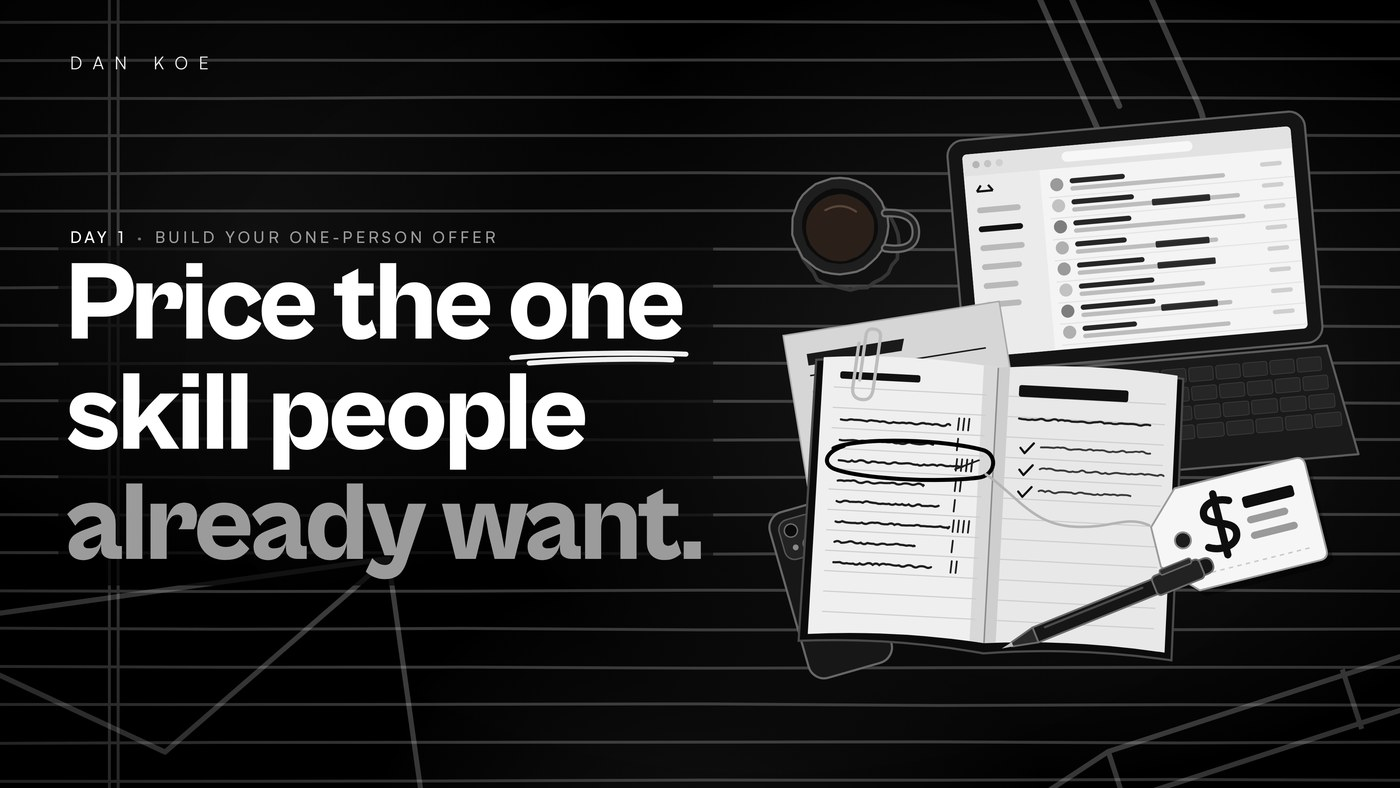
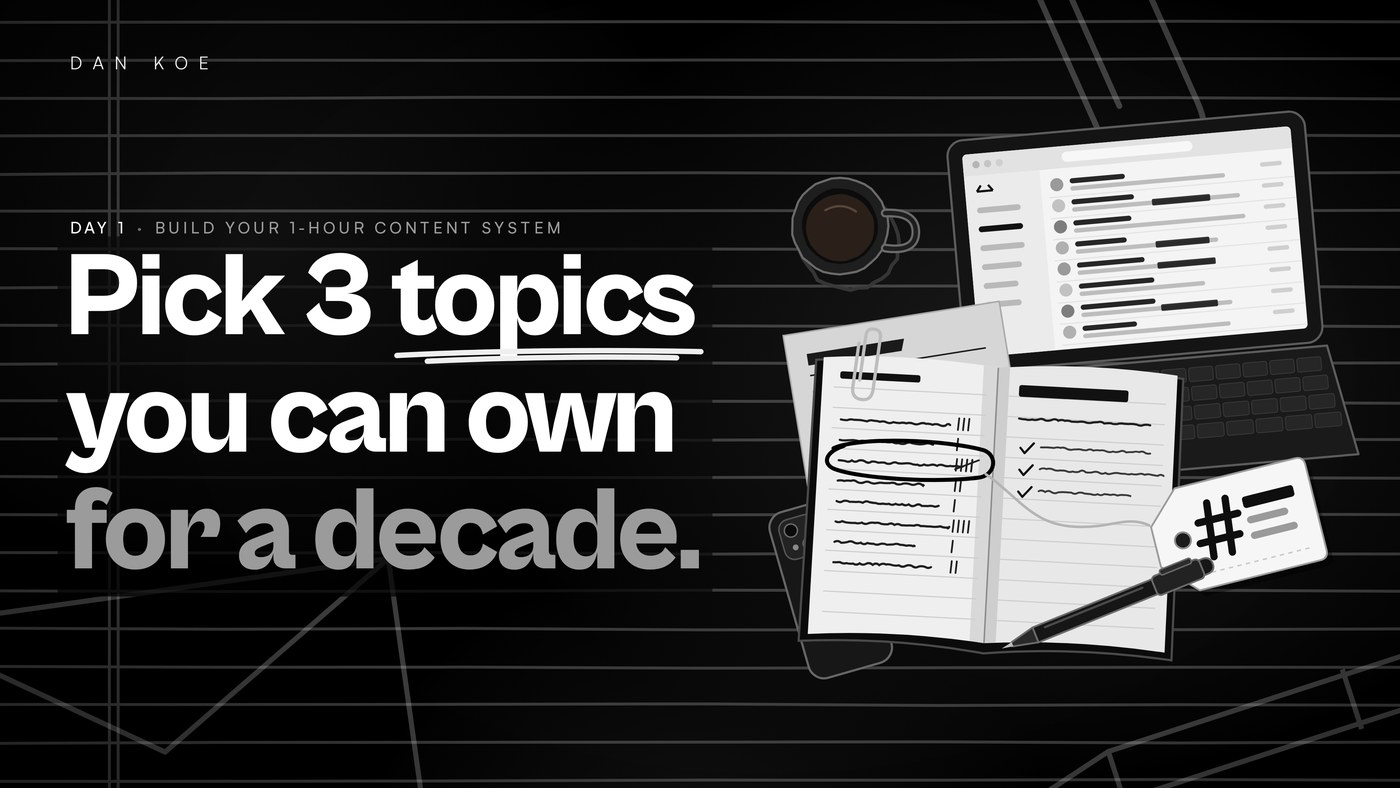
Dan Koe page reworked around Eden, +$419K

Changed region(s): [[0.0307, 0.2741, 0.5221, 0.7614], [0.8293, 0.6091, 0.8907, 0.731]]

diff --git a/dan-koe/index.html b/dan-koe/index.html
@@ -2,11 +2,11 @@
 <html lang="en">
 <head>
 <meta charset="utf-8">
-<title>Build Your One-Person Offer | future/proof</title>
+<title>Build Your 1-Hour Content System | future/proof</title>
 <link rel="stylesheet" href="fonts/cabinet-grotesk_400-500-600-700-800.css">
 <link rel="stylesheet" href="fonts/satoshi_400-500-600-700-800.css">
 <link rel="stylesheet" href="lp.css?v=9c13f38f">
-<style>:root{ --ground:#070707; --ink:#FDFDFD; --accent:#EFEFEF; --accent-ink:#111111; --accent2:#707070; --accent-text:#EFEFEF; --head-acc:#EFEFEF; --ink-soft:#CCCCCC; --muted:#8C8C8C; --hair:rgba(253,253,253,0.100); --hair-2:rgba(253,253,253,0.170); --accent-10:rgba(239,239,239,0.130); --accent-sh:rgba(239,239,239,0.550); --accent-sh2:rgba(239,239,239,0.280); --pat:#EFEFEF; --pat-op:0.36; --ghost:#EFEFEF; --ghost-op:0.36; --grain-img:url(grain-dark.png); --grain-op:.14; --grain-blend:overlay; --wall:radial-gradient(120% 90% at 18% 0%, rgba(179,179,179,0.850), transparent 62%),radial-gradient(90% 80% at 100% 100%, rgba(78,78,78,0.500), transparent 60%), linear-gradient(160deg,#1D1E23,#0B0B0D); --glass:rgba(255,255,255,.07); --glass-brd:rgba(255,255,255,.12); --glass-hi:rgba(255,255,255,.10); --glass-solid:rgba(29,29,29,0.930); --card:rgba(255,255,255,.05); --card-brd:rgba(255,255,255,.08); --strip:rgba(255,255,255,.035); --well:rgba(255,255,255,.06); --field:rgba(0,0,0,.28); --av-ring:#2F2F2F; --cap-bg:rgba(14,14,16,.58); --cap-ink:#FFFFFF; --cap-muted:rgba(255,255,255,.72); --sh1:0 1px 1px rgba(0,0,0,.35),0 24px 44px -22px rgba(0,0,0,.65),0 60px 90px -50px rgba(0,0,0,.7); --sh2:0 1px 1px rgba(0,0,0,.3),0 16px 32px -18px rgba(0,0,0,.6); --sh-dev:0 1px 1px rgba(0,0,0,.4),0 6px 14px -4px rgba(0,0,0,.45),0 30px 50px -20px rgba(0,0,0,.7),0 70px 100px -50px rgba(0,0,0,.7); --sh-dev-sm:0 1px 1px rgba(0,0,0,.35),0 18px 34px -18px rgba(0,0,0,.7); --contact:rgba(0,0,0,.62); --plate:radial-gradient(90% 70% at 50% 100%, rgba(239,239,239,0.340), transparent 70%), linear-gradient(180deg, #252525, #060606); --band:#121212; --band-ink:#F0F0F0; --band-ink-70:rgba(240,240,240,0.700); --band-ink-50:rgba(240,240,240,0.500); --band-hair:rgba(240,240,240,0.140); --band-paint:radial-gradient(560px 260px at 50% -30px, rgba(239,239,239,0.300), transparent 72%), radial-gradient(420px 220px at 100% 100%, rgba(112,112,112,0.100), transparent 70%); --ground-paint:radial-gradient(640px 540px at 96% 1%, rgba(239,239,239,0.220), transparent 70%),radial-gradient(560px 480px at 0% 15%, rgba(112,112,112,0.080), transparent 70%),radial-gradient(700px 560px at 100% 46%, rgba(239,239,239,0.090), transparent 70%),radial-gradient(620px 520px at 0% 72%, rgba(239,239,239,0.070), transparent 70%),radial-gradient(760px 520px at 72% 100%, rgba(112,112,112,0.070), transparent 70%),radial-gradient(520px 420px at 0% 0%, rgba(0,0,0,.35), transparent 70%),radial-gradient(560px 460px at 100% 100%, rgba(0,0,0,.35), transparent 70%), #070707; --display:"Cabinet Grotesk", Georgia, serif; --body:"Satoshi", system-ui, sans-serif; --label:"Satoshi", system-ui, sans-serif; --lw:600; --ltr:.15em; --dw:800; --dw2:500; }</style>
+<style>:root{ --ground:#070707; --ink:#FDFDFD; --accent:#EFEFEF; --accent-ink:#111111; --accent2:#707070; --accent-text:#EFEFEF; --head-acc:#EFEFEF; --ink-soft:#CCCCCC; --muted:#8C8C8C; --hair:rgba(253,253,253,0.100); --hair-2:rgba(253,253,253,0.170); --accent-10:rgba(239,239,239,0.130); --accent-sh:rgba(239,239,239,0.550); --accent-sh2:rgba(239,239,239,0.280); --pat:#EFEFEF; --pat-op:0.282; --ghost:#EFEFEF; --ghost-op:0.347; --grain-img:url(grain-dark.png); --grain-op:.14; --grain-blend:overlay; --wall:radial-gradient(120% 90% at 18% 0%, rgba(179,179,179,0.850), transparent 62%),radial-gradient(90% 80% at 100% 100%, rgba(78,78,78,0.500), transparent 60%), linear-gradient(160deg,#1D1E23,#0B0B0D); --glass:rgba(255,255,255,.07); --glass-brd:rgba(255,255,255,.12); --glass-hi:rgba(255,255,255,.10); --glass-solid:rgba(29,29,29,0.930); --card:rgba(255,255,255,.05); --card-brd:rgba(255,255,255,.08); --strip:rgba(255,255,255,.035); --well:rgba(255,255,255,.06); --field:rgba(0,0,0,.28); --av-ring:#2F2F2F; --cap-bg:rgba(14,14,16,.58); --cap-ink:#FFFFFF; --cap-muted:rgba(255,255,255,.72); --sh1:0 1px 1px rgba(0,0,0,.35),0 24px 44px -22px rgba(0,0,0,.65),0 60px 90px -50px rgba(0,0,0,.7); --sh2:0 1px 1px rgba(0,0,0,.3),0 16px 32px -18px rgba(0,0,0,.6); --sh-dev:0 1px 1px rgba(0,0,0,.4),0 6px 14px -4px rgba(0,0,0,.45),0 30px 50px -20px rgba(0,0,0,.7),0 70px 100px -50px rgba(0,0,0,.7); --sh-dev-sm:0 1px 1px rgba(0,0,0,.35),0 18px 34px -18px rgba(0,0,0,.7); --contact:rgba(0,0,0,.62); --plate:radial-gradient(90% 70% at 50% 100%, rgba(239,239,239,0.340), transparent 70%), linear-gradient(180deg, #252525, #060606); --band:#121212; --band-ink:#F0F0F0; --band-ink-70:rgba(240,240,240,0.700); --band-ink-50:rgba(240,240,240,0.500); --band-hair:rgba(240,240,240,0.140); --band-paint:radial-gradient(560px 260px at 50% -30px, rgba(239,239,239,0.300), transparent 72%), radial-gradient(420px 220px at 100% 100%, rgba(112,112,112,0.100), transparent 70%); --ground-paint:radial-gradient(640px 540px at 96% 1%, rgba(239,239,239,0.220), transparent 70%),radial-gradient(560px 480px at 0% 15%, rgba(112,112,112,0.080), transparent 70%),radial-gradient(700px 560px at 100% 46%, rgba(239,239,239,0.090), transparent 70%),radial-gradient(620px 520px at 0% 72%, rgba(239,239,239,0.070), transparent 70%),radial-gradient(760px 520px at 72% 100%, rgba(112,112,112,0.070), transparent 70%),radial-gradient(520px 420px at 0% 0%, rgba(0,0,0,.35), transparent 70%),radial-gradient(560px 460px at 100% 100%, rgba(0,0,0,.35), transparent 70%), #070707; --display:"Cabinet Grotesk", Georgia, serif; --body:"Satoshi", system-ui, sans-serif; --label:"Satoshi", system-ui, sans-serif; --lw:600; --ltr:.15em; --dw:800; --dw2:500; }</style>
 <meta name="robots" content="noindex,nofollow">
 <meta name="viewport" content="width=device-width,initial-scale=1">
 <link rel="stylesheet" href="site.css?v=b37cb128">
@@ -136,10 +136,10 @@
   <footer class="foot z"><span class="cchip">Free event</span><span id="footL"></span><span class="fr" id="footR"></span></footer>
 </div>
 <div id="probe"></div>
-<script>window.LP = {"slug": "dan-koe", "name": "Dan Koe", "brand": "future/proof", "role": "Writer, author of The Art of Focus", "event": "Build Your One-Person Offer", "headline": {"lines": ["Price the one", "skill people", "already want."], "accent_line": 1, "mark_word": "skill people"}, "stats": [{"num": "346K+", "label": "future/proof subscribers", "source": "https://letters.thedankoe.com/"}, {"num": "2,544+", "label": "Students enrolled", "source": "https://digitaleconomics.school/"}], "days": [{"title": "Price the one|skill people|already want.", "outcome": "One skill your readers already ask about, turned into a named offer with a price.", "detail": "We start from the questions people already send you, pick the one skill worth packaging.", "bullets": ["List the questions readers already ask you", "Pick the one skill worth packaging", "Name the offer and set its price"]}, {"title": "Build the offer|stack and|sales page", "outcome": "The offer stack outlined and a sales page drafted in your own voice.", "detail": "We stack the core offer with what makes it easier to finish, then write the sales page the way you already write your posts.", "bullets": ["Outline the stack, core first", "Draft the sales page in your own voice", "Write the headline that pulls buyers in"]}, {"title": "Land clients|and automate|the promotion", "outcome": "Your first client channel chosen and your letter set up to promote the offer.", "detail": "We choose where your first buyers come from.", "bullets": ["Choose your first client channel", "Plan the letters and posts that sell", "Set the promotion to run on its own"]}], "sources_line": "Figures: letters.thedankoe.com, digitaleconomics.school, youtube.com, thedankoe.com", "style": {"pattern": "dots", "mark": "underline", "video_focus": "48% 26%", "headshot_focus": "50% 32%", "colors": {"accent": "#EFEFEF", "secondary": "#707070"}}, "pattern": "ruled", "mark": {"kind": "swipe", "color": "#EFEFEF", "from": "slide"}, "ghosts": [{"svg": "<svg xmlns=\"http://www.w3.org/2000/svg\" viewBox=\"-148.6 758.0 747.0 525.8\" fill=\"none\"><defs>\n      <mask id=\"gh0-hmask\" maskUnits=\"userSpaceOnUse\" x=\"0\" y=\"0\" width=\"1920\" height=\"1080\">\n        <rect x=\"0\" y=\"0\" width=\"1920\" height=\"1080\" fill=\"#fff\"><\/rect>\n        <rect id=\"gh0-hbox\" x=\"84\" y=\"360.09375\" width=\"898\" height=\"394.171875\" fill=\"#4a4a4a\"><\/rect>\n      <\/mask>\n    <\/defs><g transform=\"matrix(1 0 0 1 0 0)\"><g transform=\"rotate(-8 300 980)\"><path d=\"M-120 800 H560 V1220 H-120 Z M-120 800 L220 1020 L560 800\" stroke-width=\"7\" stroke-linejoin=\"round\" stroke=\"#000\" fill=\"none\" stroke-linecap=\"butt\"><\/path><\/g><\/g><\/svg>", "w": 747.0, "h": 525.8, "sw": 7}, {"svg": "<svg xmlns=\"http://www.w3.org/2000/svg\" viewBox=\"1364.1 -187.0 315.5 457.4\" fill=\"none\"><defs>\n      <mask id=\"gh1-hmask\" maskUnits=\"userSpaceOnUse\" x=\"0\" y=\"0\" width=\"1920\" height=\"1080\">\n        <rect x=\"0\" y=\"0\" width=\"1920\" height=\"1080\" fill=\"#fff\"><\/rect>\n        <rect id=\"gh1-hbox\" x=\"84\" y=\"360.09375\" width=\"898\" height=\"394.171875\" fill=\"#4a4a4a\"><\/rect>\n      <\/mask>\n    <\/defs><g transform=\"matrix(1 0 0 1 0 0)\"><path d=\"M1460 -60 V180 Q1460 250 1530 250 Q1600 250 1600 180 V-120 Q1600 -170 1550 -170 Q1500 -170 1500 -120 V140\" stroke-width=\"8\" stroke-linecap=\"round\" transform=\"rotate(-24 1530 60)\" stroke=\"#000\" fill=\"none\" stroke-linejoin=\"miter\"><\/path><\/g><\/svg>", "w": 315.5, "h": 457.4, "sw": 8}, {"svg": "<svg xmlns=\"http://www.w3.org/2000/svg\" viewBox=\"1405.3 854.1 640.9 291.7\" fill=\"none\"><defs>\n      <mask id=\"gh2-hmask\" maskUnits=\"userSpaceOnUse\" x=\"0\" y=\"0\" width=\"1920\" height=\"1080\">\n        <rect x=\"0\" y=\"0\" width=\"1920\" height=\"1080\" fill=\"#fff\"><\/rect>\n        <rect id=\"gh2-hbox\" x=\"84\" y=\"360.09375\" width=\"898\" height=\"394.171875\" fill=\"#4a4a4a\"><\/rect>\n      <\/mask>\n    <\/defs><g transform=\"matrix(1 0 0 1 0 0)\"><g transform=\"translate(1520 1030) rotate(-18)\"><path d=\"M0 0 H520 V70 H0 Z M0 0 L-110 30 L-110 40 L0 70 M340 -8 V78\" stroke-width=\"7\" stroke-linejoin=\"round\" stroke=\"#000\" fill=\"none\" stroke-linecap=\"butt\"><\/path><\/g><\/g><\/svg>", "w": 640.9, "h": 291.7, "sw": 7}], "pat_op": 0.155, "ghost_op": 0.19, "ghost_stroke": 4.5, "fonts": {"display": "Cabinet Grotesk", "display_weight": 800, "body": "Satoshi", "label": "Satoshi"}, "img": {"video": "img/video.jpg", "headshot": "img/headshot.jpg", "headshot_cutout": false, "slide": "img/slide.jpg"}, "first_name": "Dan", "event_core": "Build Your One-Person Offer", "lede": "**Learn what’s actually working for one-person businesses in 2026.** I’ll show you why most writers never turn what they love talking about into something they can sell, and we’ll build your one-person offer together.", "proof": [{"num": "1.43M", "label": "YouTube subscribers", "source": "https://www.youtube.com/@DanKoeTalks"}], "ticker": ["346,000+ subscribers to future/proof", "1.43M subscribers on YouTube", "2,544+ Digital Economics students", "Author of The Art of Focus"], "checks": [{"bold": "No idea what to sell", "text": "Day 1 picks the skill readers already ask about.", "hand": "one skill"}, {"bold": "Everything sounds scammy", "text": "Build the offer from what you love talking about.", "hand": "your interests"}, {"bold": "Not experienced enough", "text": "Price what you already know and use every week.", "hand": "start now"}, {"bold": "No sales page yet", "text": "Draft it on Day 2 in your own voice.", "hand": "your voice"}, {"bold": "No time for promotion", "text": "Let your letter and posts promote the offer for you.", "hand": "one hour a day"}], "days_intro": "Day 1 picks and prices the skill, Day 2 builds the stack and the sales page, and Day 3 sets the promotion running.", "fit_count": 4, "format": "3-day"};</script>
+<script>window.LP = {"slug": "dan-koe", "name": "Dan Koe", "brand": "future/proof", "role": "Writer, co-founder of Eden", "event": "Build Your 1-Hour Content System", "headline": {"lines": ["Pick 3 topics", "you can own", "for a decade."], "accent_line": 0, "mark_word": "3 topics"}, "stats": [{"num": "346K+", "label": "future/proof subscribers", "source": "https://letters.thedankoe.com/"}, {"num": "1.43M", "label": "YouTube subscribers", "source": "https://www.youtube.com/@DanKoeTalks"}], "days": [{"title": "Pick 3 topics|you can own|for a decade.", "outcome": "Three topics you can write about for years, and the ones to park.", "detail": "We start from what you already read, do and talk about, then keep the three that overlap.", "bullets": ["List what you read, do and talk about", "Keep the 3 topics where they overlap", "Park the ones that only chase views"]}, {"title": "Make one idea|a week of posts", "outcome": "One idea from your topics written as a week of posts and one letter.", "detail": "We take one idea and write it as short posts, a thread and a newsletter issue, in your own voice.", "bullets": ["Pick one idea from a Day 1 topic", "Write the post people stop for", "Turn it into a thread and a letter"]}, {"title": "Run it on one|hour a day", "outcome": "Your hour a day set up in Eden, so next week ships without a scramble.", "detail": "We set the system up in Eden, the workspace I built for this, and I show you where the Creator Bootcamp takes it over 30 days.", "bullets": ["Capture ideas in one place in Eden", "Split the hour: write, turn, send", "See what the Creator Bootcamp adds"]}], "sources_line": "Figures: letters.thedankoe.com, youtube.com, eden.so, thedankoe.com", "style": {"pattern": "dots", "mark": "underline", "video_focus": "48% 26%", "headshot_focus": "50% 32%", "colors": {"accent": "#EFEFEF", "secondary": "#707070"}}, "pattern": "ruled", "mark": {"kind": "swipe", "color": "#EFEFEF", "from": "slide"}, "ghosts": [{"svg": "<svg xmlns=\"http://www.w3.org/2000/svg\" viewBox=\"-148.6 758.0 747.0 525.8\" fill=\"none\"><defs>\n      <mask id=\"gh0-hmask\" maskUnits=\"userSpaceOnUse\" x=\"0\" y=\"0\" width=\"1920\" height=\"1080\">\n        <rect x=\"0\" y=\"0\" width=\"1920\" height=\"1080\" fill=\"#fff\"><\/rect>\n        <rect id=\"gh0-hbox\" x=\"77\" y=\"319.09375\" width=\"898\" height=\"494.671875\" fill=\"#4a4a4a\"><\/rect>\n      <\/mask>\n    <\/defs><g transform=\"matrix(1 0 0 1 0 0)\"><g transform=\"rotate(-8 300 980)\"><path d=\"M-120 800 H560 V1220 H-120 Z M-120 800 L220 1020 L560 800\" stroke-width=\"7\" stroke-linejoin=\"round\" stroke=\"#000\" fill=\"none\" stroke-linecap=\"butt\"><\/path><\/g><\/g><\/svg>", "w": 747.0, "h": 525.8, "sw": 7}, {"svg": "<svg xmlns=\"http://www.w3.org/2000/svg\" viewBox=\"1364.1 -187.0 315.5 457.4\" fill=\"none\"><defs>\n      <mask id=\"gh1-hmask\" maskUnits=\"userSpaceOnUse\" x=\"0\" y=\"0\" width=\"1920\" height=\"1080\">\n        <rect x=\"0\" y=\"0\" width=\"1920\" height=\"1080\" fill=\"#fff\"><\/rect>\n        <rect id=\"gh1-hbox\" x=\"77\" y=\"319.09375\" width=\"898\" height=\"494.671875\" fill=\"#4a4a4a\"><\/rect>\n      <\/mask>\n    <\/defs><g transform=\"matrix(1 0 0 1 0 0)\"><path d=\"M1460 -60 V180 Q1460 250 1530 250 Q1600 250 1600 180 V-120 Q1600 -170 1550 -170 Q1500 -170 1500 -120 V140\" stroke-width=\"8\" stroke-linecap=\"round\" transform=\"rotate(-24 1530 60)\" stroke=\"#000\" fill=\"none\" stroke-linejoin=\"miter\"><\/path><\/g><\/svg>", "w": 315.5, "h": 457.4, "sw": 8}, {"svg": "<svg xmlns=\"http://www.w3.org/2000/svg\" viewBox=\"1405.3 854.1 640.9 291.7\" fill=\"none\"><defs>\n      <mask id=\"gh2-hmask\" maskUnits=\"userSpaceOnUse\" x=\"0\" y=\"0\" width=\"1920\" height=\"1080\">\n        <rect x=\"0\" y=\"0\" width=\"1920\" height=\"1080\" fill=\"#fff\"><\/rect>\n        <rect id=\"gh2-hbox\" x=\"77\" y=\"319.09375\" width=\"898\" height=\"494.671875\" fill=\"#4a4a4a\"><\/rect>\n      <\/mask>\n    <\/defs><g transform=\"matrix(1 0 0 1 0 0)\"><g transform=\"translate(1520 1030) rotate(-18)\"><path d=\"M0 0 H520 V70 H0 Z M0 0 L-110 30 L-110 40 L0 70 M340 -8 V78\" stroke-width=\"7\" stroke-linejoin=\"round\" stroke=\"#000\" fill=\"none\" stroke-linecap=\"butt\"><\/path><\/g><\/g><\/svg>", "w": 640.9, "h": 291.7, "sw": 7}], "pat_op": 0.155, "ghost_op": 0.19, "ghost_stroke": 4.5, "fonts": {"display": "Cabinet Grotesk", "display_weight": 800, "body": "Satoshi", "label": "Satoshi"}, "img": {"video": "img/video.jpg", "headshot": "img/headshot.jpg", "headshot_cutout": false, "slide": "img/slide.jpg"}, "first_name": "Dan", "event_core": "Build Your 1-Hour Content System", "lede": "**Learn what’s actually working for writing online in 2026.** I’ll walk through why most people post for months and nobody reads, the 5 things that decide whether your writing gets read, and we’ll build your 1-hour content system together. It’s the same system I teach inside the Eden Creator Bootcamp, and it’s yours for free.", "proof": [{"num": "30 days", "label": "Eden Creator Bootcamp", "source": "https://eden.so/bootcamp"}], "ticker": ["346,000+ subscribers to future/proof", "1.43M subscribers on YouTube", "Co-founder of Eden", "Author of The Art of Focus"], "checks": [{"bold": "No idea what to post", "text": "Day 1 picks 3 topics you can write about for years.", "hand": "3 topics"}, {"bold": "Posts nobody reads", "text": "Write the post people stop for, from one idea.", "hand": "one idea"}, {"bold": "No time to write", "text": "Set up a system that runs on one hour a day.", "hand": "one hour a day"}, {"bold": "AI posts everywhere", "text": "Stand out by writing from your own interests.", "hand": "your voice"}, {"bold": "The algorithm changes", "text": "Grow a newsletter list that stays yours.", "hand": "your list"}], "days_intro": "Day 1 picks your topics, Day 2 turns one idea into a week of posts, and Day 3 sets it all running on one hour a day.", "fit_count": 4, "format": "3-day"};</script>
 <script src="lp.js?v=113601bc"></script>
 <script>window.SITE = {
- "event": "Build Your One-Person Offer",
+ "event": "Build Your 1-Hour Content System",
  "name": "Dan Koe",
  "brand": "future/proof",
  "trusted_count": "1.43M",
@@ -151,14 +151,14 @@
  "body": "Yes, send me the full page.\n\n",
  "gate_from": "band",
  "gate_title": "The rest of this page is ready",
- "gate_text": "Reply to my email and I will open the rest of Build Your One-Person Offer for you.",
+ "gate_text": "Reply to my email and I will open the rest of Build Your 1-Hour Content System for you.",
  "gate_cta": "Open the full page",
  "gate_hint": "Reply to my email and I will open it",
  "when": "",
  "avatar": "img/headshot.jpg",
- "bio": "Dan Koe is the author of The Art of Focus, co-founder of Eden and a writer obsessed with the mind, the internet and the future. He was a brand advisor for creators and influencers, and now teaches writing as a way to discover your life\u2019s work.",
- "role": "Writer, author of The Art of Focus",
- "days_intro": "Day 1 picks and prices the skill, Day 2 builds the stack and the sales page, and Day 3 sets the promotion running.",
+ "bio": "Dan Koe is the author of The Art of Focus, co-founder of Eden and a writer obsessed with the mind, the internet and the future. He writes future/proof for over 346,000 readers and teaches writing as a way to discover your life\u2019s work.",
+ "role": "Writer, co-founder of Eden",
+ "days_intro": "Day 1 picks your topics, Day 2 turns one idea into a week of posts, and Day 3 sets it all running on one hour a day.",
  "check_why": [
   "",
   "",
@@ -167,25 +167,25 @@
   ""
  ],
  "day_detail": [
-  "We start from the questions people already send you, pick the one skill worth packaging.",
-  "We stack the core offer with what makes it easier to finish, then write the sales page the way you already write your posts.",
-  "We choose where your first buyers come from."
+  "We start from what you already read, do and talk about, then keep the three that overlap.",
+  "We take one idea and write it as short posts, a thread and a newsletter issue, in your own voice.",
+  "We set the system up in Eden, the workspace I built for this, and I show you where the Creator Bootcamp takes it over 30 days."
  ],
  "day_bullets": [
   [
-   "List the questions readers already ask you",
-   "Pick the one skill worth packaging",
-   "Name the offer and set its price"
+   "List what you read, do and talk about",
+   "Keep the 3 topics where they overlap",
+   "Park the ones that only chase views"
   ],
   [
-   "Outline the stack, core first",
-   "Draft the sales page in your own voice",
-   "Write the headline that pulls buyers in"
+   "Pick one idea from a Day 1 topic",
+   "Write the post people stop for",
+   "Turn it into a thread and a letter"
   ],
   [
-   "Choose your first client channel",
-   "Plan the letters and posts that sell",
-   "Set the promotion to run on its own"
+   "Capture ideas in one place in Eden",
+   "Split the hour: write, turn, send",
+   "See what the Creator Bootcamp adds"
   ]
  ],
  "registered": "1,204",
@@ -233,95 +233,104 @@
   "face": "digital",
   "night": "#070707"
  },
- "keep_title": "You leave with an offer, a sales page and a letter that sells it.",
+ "keep_title": "You leave with 3 topics, a week of posts and an hour that runs it.",
  "keep": [
   {
    "kind": "brief",
-   "name": "The offer",
-   "status": "Priced",
+   "name": "Your 3 topics",
+   "status": "Down to three",
    "rows": [
     {
-     "label": "Skill",
-     "text": "Turning rough notes into a weekly newsletter",
+     "label": "You",
+     "text": "Physio, 12 years, lifts on weekends"
+    },
+    {
+     "label": "Topic 1",
+     "text": "Back pain for people who sit all day",
      "pull": true
     },
     {
-     "label": "For",
-     "text": "Coaches with ideas and no writing habit"
+     "label": "Topic 2",
+     "text": "Lifting again after 40"
     },
     {
-     "label": "Offer",
-     "text": "Newsletter Kickstart, 6 lessons"
-    },
-    {
-     "label": "Price",
-     "text": "$197, one payment"
+     "label": "Topic 3",
+     "text": "Recovery on a busy week"
     },
     {
      "label": "Parked",
-     "text": "Ghostwriting, a paid community"
+     "text": "Supplement reviews, running shoes"
     }
    ],
-   "foot": "Sell the skill they already ask about",
+   "foot": "Write where your work and your life overlap",
    "foot_tag": "2 parked"
   },
   {
-   "kind": "sheet",
-   "name": "Offer stack",
-   "status": "Stacked",
-   "head": "Newsletter Kickstart",
-   "items": [
-    {
-     "art": "notebook",
-     "name": "Kickstart lessons",
-     "sku": "6 lessons",
-     "price": "Core $197"
-    },
-    {
-     "art": "card",
-     "name": "Notion idea bank",
-     "sku": "Template",
-     "price": "Adds $50"
-    },
-    {
-     "art": "print",
-     "name": "Two live reviews",
-     "sku": "Group call",
-     "price": "Adds $50"
-    }
-   ],
-   "foot": "Stack sells at $297",
-   "foot_tag": "Up from $197"
-  },
-  {
-   "kind": "tracker",
-   "name": "Promotion run",
-   "status": "Week 1 of 2",
-   "who": "Piece",
-   "cols": [
-    "Mail",
-    "X",
-    "LI"
-   ],
+   "kind": "brief",
+   "name": "One idea, one week",
+   "status": "Drafted",
    "rows": [
     {
-     "name": "Why I built Kickstart",
-     "marks": "rs-",
-     "next": "Reply to 12"
+     "label": "Idea",
+     "text": "Your back hurts from sitting still, so move",
+     "pull": true
     },
     {
-     "name": "A reader\u2019s first issue",
-     "marks": "sn-",
-     "next": "Post on X"
+     "label": "Mon post",
+     "text": "The 2 minute reset I give every desk patient"
     },
     {
-     "name": "Cart closes Friday",
-     "marks": "n--",
-     "next": "Send Friday"
+     "label": "Wed thread",
+     "text": "5 mistakes that keep a sore back sore"
+    },
+    {
+     "label": "Sat letter",
+     "text": "Why rest made my back worse at 38"
+    },
+    {
+     "label": "From",
+     "text": "Topic 1, back pain for people who sit"
     }
    ],
-   "foot": "Your letter does the selling",
-   "foot_tag": "4 sold at $297"
+   "foot": "One idea, six pieces, one voice",
+   "foot_tag": "Week 1"
+  },
+  {
+   "kind": "table",
+   "name": "Your hour in Eden",
+   "status": "Runs daily",
+   "cols": [
+    "Block",
+    "Min",
+    "When"
+   ],
+   "rows": [
+    [
+     "Capture ideas",
+     "10",
+     "Morning"
+    ],
+    [
+     "Write one post",
+     "30",
+     "Morning"
+    ],
+    [
+     "Turn it into 3",
+     "20",
+     "Lunch"
+    ],
+    [
+     "Scroll for ideas",
+     "45",
+     "Cut"
+    ]
+   ],
+   "flag": {
+    "row": 3
+   },
+   "foot": "Sixty minutes, then close the laptop",
+   "foot_tag": "Starts Monday"
   }
  ],
  "vip": {
@@ -329,11 +338,11 @@
   "still": "video-frame-candidates/_stills/XqS7kIWMIDE_maxres3.jpg",
   "still_source": "https://www.youtube.com/watch?v=XqS7kIWMIDE (YouTube automatic still maxres3)",
   "headline": [
-   "Want me to check your offer",
-   "before your letter goes out?"
+   "Want me to read your week",
+   "of posts before you post?"
   ],
-  "mark": "check your offer",
-  "lede": "Your seat is saved for all three days. Before you go, there is one optional upgrade, **{price} once**. A fourth live day where I check your offer and sales page before the letter goes out, a private VIP thread, replays of all four days and my offer stack template.",
+  "mark": "read your week",
+  "lede": "Your seat is saved for all three days. Before you go, there is one optional upgrade, **{price} once**. A fourth live day where I read your week of posts, a private VIP thread, replays of all four days and my one idea, one week page.",
   "video_title": "A quick note from {first}",
   "video_sub": "Before you start on Day 1",
   "video_len": "1:48",
@@ -345,27 +354,27 @@
   ],
   "items": [
    {
-    "bold": "Day 4, offer check with me.",
-    "text": "{day4}, {time}. 90 minutes live, VIPs only. Bring your sales page and the letter that sells it."
+    "bold": "Day 4, post review with me.",
+    "text": "{day4}, {time}. 90 minutes live, VIPs only. Bring the week of posts you wrote from one idea on Day 2."
    },
    {
     "bold": "Private VIP thread.",
-    "text": "Opens {day1_date} and stays open until {close}. Ask me anything about the offer between sessions."
+    "text": "Opens {day1_date} and stays open until {close}. Send me a draft between sessions."
    },
    {
     "bold": "Replays to keep.",
-    "text": "All three days plus Day 4, so the Day 2 sales page walk-through is there for your next offer."
+    "text": "All three days plus Day 4, so the Day 2 breakdown is there every time you sit down to write."
    },
    {
-    "bold": "My offer stack template.",
-    "text": "The Day 2 stack as one Notion page you can copy for every offer you build next."
+    "bold": "My one idea, one week page.",
+    "text": "The Day 2 breakdown on one page you can copy into Eden for every idea you write next."
    }
   ],
   "cta": "Yes, add VIP for {price}",
   "decline": "No thanks, take me to my join details",
   "proof": "**{vip_count} people** added VIP to their seat",
   "vip_count": "132",
-  "why": "Day 3 ends with the attendee holding a priced offer, a drafted sales page and a letter set up to promote it. The gap is that nobody checks the offer or the page before it goes out to their readers, so Day 4 is Dan checking both. The loudest objection is not feeling experienced enough to sell. Dan's people gather on his future/proof Substack (over 346,000 subscribers, letters.thedankoe.com), so the direct line is a plain private VIP thread. His voice: one-person business, offer stack, sales pages that pull in customers (digitaleconomics.school). The extension asset is the Day 2 offer stack as a Notion template, echoing the Notion templates in Digital Economics."
+  "why": "Day 3 ends with the attendee holding three topics, a week of posts written from one idea and an hour a day mapped in Eden. The gap is that nobody reads those posts before they go out, so Day 4 is Dan reading them. The loudest objection is having posts nobody reads. Dan's people gather on his future/proof Substack (over 346,000 subscribers, letters.thedankoe.com) and the Eden Creator Bootcamp runs a private Discord (eden.so/bootcamp), so the direct line is a plain private VIP thread. His voice: one idea becomes a week of content, the topics you own, a system that runs on an hour a day (eden.so/bootcamp). The extension asset is the Day 2 one idea, one week breakdown as a page to copy into Eden."
  }
 };</script>
 <script src="site.js?v=ed8338e7"></script>
